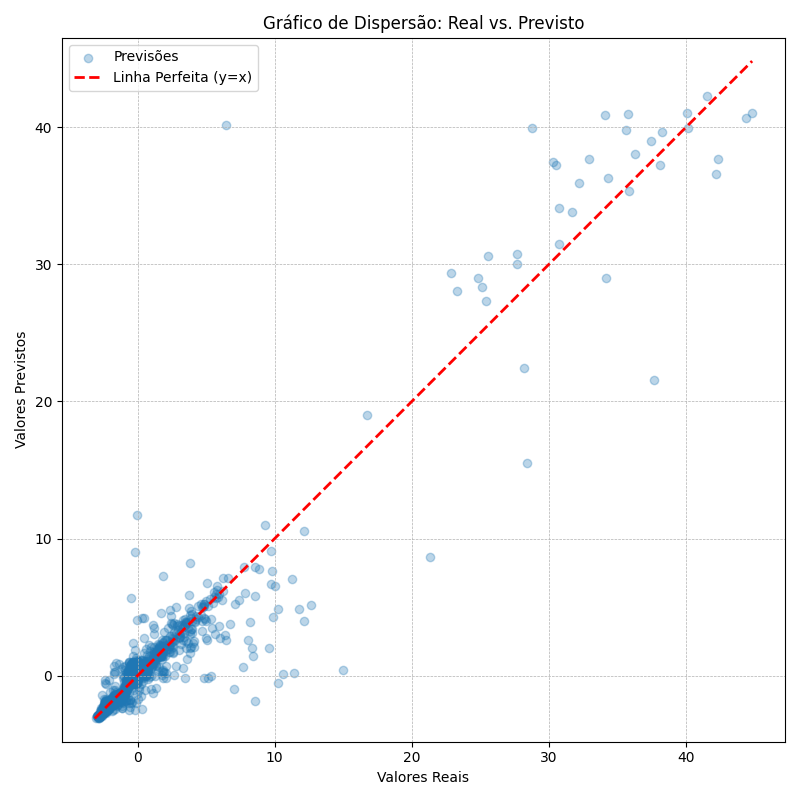
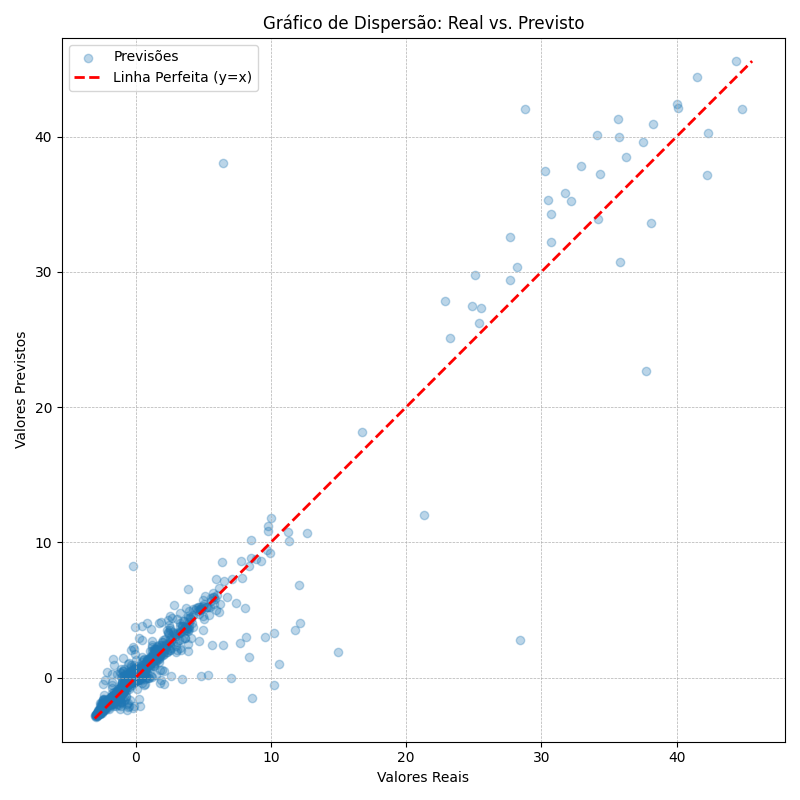
Add files via upload

diff --git a/TFT/TFT.py b/TFT/TFT.py
@@ -1,0 +1,273 @@
+# (Pode ser necessário: !pip install pytorch-lightning pytorch-forecasting)
+import pandas as pd
+import numpy as np
+import torch
+import lightning.pytorch as pl # Usar lightning.pytorch para garantir a versão 2.x
+import matplotlib.pyplot as plt
+torch.set_float32_matmul_precision('medium')
+import os
+from pytorch_forecasting import TimeSeriesDataSet, TemporalFusionTransformer
+from pytorch_forecasting.data import GroupNormalizer
+# ... no topo do seu script
+from pytorch_forecasting.metrics import RMSE, MAE
+from sklearn.metrics import r2_score, mean_squared_error
+
+if __name__ == "__main__":
+
+    try:
+        print("\nIniciando Treinamento (Teste 14 - TFT Regressão de Nível)...")
+
+        # --- 1. Carregar Dados (Movido para dentro desta célula) ---
+        file_path = 'dataset_final_completo_com_mkr.csv'
+        print("Carregando e preparando dados...")
+        df = pd.read_csv(file_path)
+        target_col = 'Y_Target_Spread_Ponderado'
+        df = df.drop(columns=['mkr_apyBase', 'mkr_apyReward'])
+        df['date'] = pd.to_datetime(df['date'])
+        df_clean = df.dropna(subset=[target_col]).copy()
+        df_clean = df_clean.sort_values(by='date').reset_index(drop=True)
+
+        df_clean['Y_Target_Rolling_Vol_7D'] = df_clean[target_col].rolling(window=7, min_periods=1).std()
+
+        # --- 2. Definir TODAS as Features (34) (Movido para dentro desta célula) ---
+        market_risk_features = [
+            'totalValueLockedUSD', 'X_USDC_Depeg_Risk', 'X_BTC_Price', 'X_ETH_Price',
+            'X_VIX', 'X_DGS2', 'X_Gas_Price_Gwei', 'X_ETH_Returns', 'X_ETH_Vol_7D',
+            'X_BTC_Returns', 'X_BTC_Vol_7D', 'X_Gas_MA_7D', 'X_VIX_Pct_Change',
+            'total_tvl_aave', 'total_tvl_compound', 'total_tvl_defi',
+            'delta_total_defi_tvl_7d', 'mkr_tvlUsd'
+        ]
+
+        autoregressive_features = [
+            'Y_Aave_APY', 'Y_SOFR', 'Y_Target_Spread', 'DeFi_APY_Ponderado',
+            'apy_aave', 'apy_compound', 'deposit_apy', 'borrow_apy', 'mkr_apy',
+            'X_Aave_Utilization', 'utilization_rate', 'compound_utilization_rate',
+            'total_borrow_usd', 'total_deposit_usd', 'Spread_Aave_Compound', 'Y_Target_Rolling_Vol_7D'
+        ]
+
+        all_features_to_model = market_risk_features + autoregressive_features
+        feature_cols = [col for col in all_features_to_model if col in df_clean.columns]
+
+        # --- 3. Criar DataFrame Final para os Modelos (Movido para dentro desta célula) ---
+        X_y_df = df_clean[feature_cols + [target_col]].copy()
+        for col in X_y_df.columns:
+            X_y_df[col] = pd.to_numeric(X_y_df[col], errors='coerce')
+
+        X_y_df = X_y_df.ffill().fillna(0)
+
+        if X_y_df.isnull().sum().sum() > 0:
+            print("Ainda há NaNs! Preenchendo com 0.")
+            X_y_df = X_y_df.fillna(0)
+
+        # --- NOVO BLOCO: ENGENHARIA DE FEATURES DE VOLATILIDADE ---
+        print("Criando features de volatilidade...")
+        # Volatilidade do próprio target
+        X_y_df['target_vol_7d'] = X_y_df[target_col].rolling(window=7).std().ffill()
+        X_y_df['target_vol_30d'] = X_y_df[target_col].rolling(window=30).std().ffill()
+        
+        # Volatilidade de features importantes (Ex: ETH e VIX)
+        X_y_df['eth_returns_vol_7d'] = X_y_df['X_ETH_Returns'].rolling(window=7).std().ffill()
+        X_y_df['vix_pct_change_vol_7d'] = X_y_df['X_VIX_Pct_Change'].rolling(window=7).std().ffill()
+
+        # Adicione as novas colunas à lista de features
+        new_vol_features = ['target_vol_7d', 'target_vol_30d', 'eth_returns_vol_7d', 'vix_pct_change_vol_7d']
+        feature_cols.extend(new_vol_features)
+        
+        # Garante que as novas colunas não tenham NaNs do bfill inicial
+        X_y_df = X_y_df.ffill().fillna(0)
+        # --- FIM DO NOVO BLOCO ---
+
+        print(f"Dados prontos com {len(feature_cols)} features e 1 alvo.")
+
+        # --- 1. Preparação de Dados para TFT ---
+        tft_data = X_y_df.copy()
+
+        # TFT requer uma coluna 'time_idx' (inteiro sequencial)
+        tft_data['time_idx'] = np.arange(len(tft_data))
+
+        # TFT requer uma coluna de 'group' (mesmo que só tenhamos um)
+        tft_data['group'] = 0
+
+        # --- 2. Divisão Cronológica (Treino/Teste) ---
+        split_ratio = 0.8
+        split_index = int(len(tft_data) * split_ratio)
+
+        train_tft_df = tft_data.iloc[:split_index]
+        test_tft_df = tft_data.iloc[split_index:]
+
+        # --- 3. Criar o TimeSeriesDataSet ---
+        n_lookback = 30 # Dias de histórico
+        n_horizon = 1  # Prever 1 dia à frente
+
+        n_workers = 8
+
+        training_data = TimeSeriesDataSet(
+            train_tft_df,
+            time_idx="time_idx",
+            target=target_col,
+            group_ids=["group"],
+            # --- A CORREÇÃO ---
+            # Adicionamos o target_col à lista de features de input
+            time_varying_unknown_reals=feature_cols + [target_col], 
+            # ------------------
+
+            # --- NOVO PARÂMETRO ---
+            # Diz ao modelo para usar os valores do target de 
+            # 1, 2, 3 e 7 dias atrás como features. - TESTANDO AGR USANDO SOMENTE COM 2 dias pra tras ou mais, evitar basear excessivamente no dia anterior
+            lags={target_col: [2, 3, 7]},
+            # ---------------------
+
+            max_encoder_length=n_lookback,
+            max_prediction_length=n_horizon,
+            target_normalizer=GroupNormalizer(groups=["group"]),
+            add_relative_time_idx=True,
+        )
+
+        validation_data = TimeSeriesDataSet.from_dataset(
+            training_data, tft_data, predict=False, stop_randomization=True
+        )
+
+        batch_size = 32
+        
+        train_dataloader = training_data.to_dataloader(
+            train=True, batch_size=batch_size, num_workers=n_workers, persistent_workers=True
+        )
+        val_dataloader = validation_data.to_dataloader(
+            train=False, batch_size=batch_size, num_workers=n_workers, persistent_workers=True
+        )
+
+        print("Dataloaders do TFT prontos.")
+
+        # --- 4. Definir e Treinar o Modelo TFT ---
+        trainer = pl.Trainer(
+            max_epochs=300,
+            accelerator="auto",
+            gradient_clip_val=0.1,
+            callbacks=[
+                pl.callbacks.EarlyStopping(monitor="val_loss", min_delta=1e-4, patience=20) # Aumentei a paciência
+            ],
+        )
+
+        tft = TemporalFusionTransformer.from_dataset(
+            training_data,
+            # NÃO DEFINA O LR AQUI AINDA
+            hidden_size=256,
+            attention_head_size=4,
+            dropout=0.1,
+            hidden_continuous_size=128,
+            output_size=1,
+            loss=MAE(),
+            reduce_on_plateau_patience=4,
+        )
+        
+        # --- NOVO: Bloco do Tuner ---
+        print("Iniciando o Tuner para encontrar o Learning Rate ideal...")
+        tuner = pl.tuner.Tuner(trainer)
+        
+        # Encontra o LR
+        lr_finder = tuner.lr_find(
+            tft,
+            train_dataloaders=train_dataloader,
+            val_dataloaders=val_dataloader,
+            max_lr=1.0,
+            min_lr=1e-6,
+
+        )
+
+        # Pega a sugestão e plota (o plot é útil no notebook)
+        suggested_lr = lr_finder.suggestion()
+        print(f"Taxa de Aprendizado (LR) sugerida: {suggested_lr}")
+        
+        # Atualiza o modelo com o LR ideal
+        tft.hparams.learning_rate = suggested_lr
+
+        # --- Fim do Bloco do Tuner ---
+
+        print(f"\nTreinando o modelo TFT com LR={suggested_lr} (parâmetros: {tft.size()})...")
+        trainer.fit(
+            tft,
+            train_dataloaders=train_dataloader,
+            val_dataloaders=val_dataloader
+        )
+        print("Treinamento TFT concluído.")
+
+        # --- 5. Avaliação do TFT ---
+        best_model_path = trainer.checkpoint_callback.best_model_path
+        best_tft = TemporalFusionTransformer.load_from_checkpoint(best_model_path)
+
+        # Coletar as previsões (assume que .predict() retorna apenas o tensor de previsões)
+        y_pred_tensor = best_tft.predict(val_dataloader)
+        y_pred_tft = y_pred_tensor.flatten().numpy()
+
+        # Coletar os valores reais do val_dataloader
+        y_test_values_from_dataloader = []
+        for x, y in val_dataloader:
+            # y é uma tupla (target, encoder_target). Pegamos o target (primeiro elemento).
+            y_test_values_from_dataloader.append(y[0].flatten())
+        
+        y_test_tft = torch.cat(y_test_values_from_dataloader).numpy()
+
+        # Verifica se as dimensões correspondem antes de calcular as métricas
+        if len(y_pred_tft) != len(y_test_tft):
+            print(f"Aviso: Comprimento das previsões ({len(y_pred_tft)}) e dos valores reais ({len(y_test_tft)}) não correspondem. Alinhando.")
+            min_len = min(len(y_pred_tft), len(y_test_tft))
+            y_pred_tft = y_pred_tft[:min_len]
+            y_test_tft = y_test_tft[:min_len]
+
+        r2_tft = r2_score(y_test_tft, y_pred_tft)
+        rmse_tft = np.sqrt(mean_squared_error(y_test_tft, y_pred_tft))
+
+        print("\n--- Métricas (TFT) ---")
+        print(f"R-squared (R²): {r2_tft:.4f}")
+        print(f"Root Mean Squared Error (RMSE): {rmse_tft:.6f}")
+
+
+        # --- GRÁFICO 1: Previsão vs. Real (Série Temporal) ---
+        # Este é o gráfico mais importante. Mostra como o modelo seguiu a realidade ao longo do tempo.
+
+        plt.figure(figsize=(15, 6))
+        plt.plot(y_test_tft, label='Valor Real', color='blue', linewidth=1)
+        plt.plot(y_pred_tft, label='Previsão do Modelo', color='red', linestyle='--', linewidth=2)
+        plt.title(f'TFT: Previsão vs. Real (R²: {r2_tft:.4f})')
+        plt.xlabel('Amostras no Tempo (Conjunto de Teste)')
+        plt.ylabel('Valor do Target (Spread Ponderado)')
+        plt.legend()
+        plt.grid(True, which='both', linestyle='--', linewidth=0.5)
+        plt.tight_layout()
+
+        # Salva a imagem em um arquivo
+        plt.savefig('tft_time_series_plot.png')
+        print("Gráfico de Série Temporal salvo em 'tft_time_series_plot.png'")
+
+
+        # --- GRÁFICO 2: Gráfico de Dispersão (Quão perfeito é o modelo?) ---
+        # Se o modelo fosse perfeito, todos os pontos estariam na linha vermelha (y=x).
+
+        plt.figure(figsize=(8, 8))
+        # Limites para a linha y=x
+        min_val = min(np.min(y_test_tft), np.min(y_pred_tft))
+        max_val = max(np.max(y_test_tft), np.max(y_pred_tft))
+
+        plt.scatter(y_test_tft, y_pred_tft, alpha=0.3, label='Previsões')
+        plt.plot([min_val, max_val], [min_val, max_val], 'r--', linewidth=2, label='Linha Perfeita (y=x)')
+        plt.xlabel('Valores Reais')
+        plt.ylabel('Valores Previstos')
+        plt.title('Gráfico de Dispersão: Real vs. Previsto')
+        plt.legend()
+        plt.grid(True, which='both', linestyle='--', linewidth=0.5)
+        plt.axis('equal') # Garante que a escala de X e Y seja a mesma
+        plt.tight_layout()
+
+        # Salva a imagem em um arquivo
+        plt.savefig('tft_scatter_plot.png')
+        print("Gráfico de Dispersão salvo em 'tft_scatter_plot.png'")
+
+
+    except Exception as e:
+        print(f"Um erro ocorreu durante o treinamento do TFT: {e}")
+
+# Adicionei nova feature de volatilidade
+
+# --- Métricas (TFT) ---
+# R-squared (R²): 0.8996
+# Root Mean Squared Error (RMSE): 2.193023

diff --git a/TFT/GARCH.py b/TFT/GARCH.py
@@ -1,0 +1,47 @@
+import pandas as pd
+import numpy as np
+import matplotlib.pyplot as plt
+from arch import arch_model
+
+# Assumindo que 'X_y_df' e 'target_col' existem do Bloco 1
+
+try:
+    print("\nIniciando Treinamento (Teste 15 - GARCH Volatilidade)...")
+
+    # GARCH funciona melhor em "retornos" (deltas), não em "níveis"
+    y_spread_deltas = X_y_df[target_col].diff(1).dropna()
+    
+    # GARCH(1,1) é o modelo padrão
+    # p=1 (lag de volatilidade), q=1 (lag de erro quadrado)
+    garch_model = arch_model(y_spread_deltas, vol='Garch', p=1, q=1)
+    
+    # Treinar (fit) o modelo
+    garch_results = garch_model.fit(disp='off')
+    
+    print(garch_results.summary())
+    
+    # --- Plotar a Volatilidade (Risco) ---
+    print("\nPlotando a volatilidade condicional (o risco previsto)...")
+    
+    # Pegar a volatilidade prevista pelo modelo
+    conditional_volatility = garch_results.conditional_volatility
+    
+    plt.figure(figsize=(15, 6))
+    plt.plot(df_clean['date'].iloc[1:], y_spread_deltas, label='Mudança Diária no Spread (Deltas)', alpha=0.7)
+    plt.plot(
+        df_clean['date'].iloc[1:], 
+        conditional_volatility, 
+        label='Volatilidade GARCH (Risco)', 
+        color='red', 
+        linestyle='--'
+    )
+    plt.title('Modelo GARCH: Volatilidade do Spread de Risco DeFi')
+    plt.legend()
+    plt.show()
+    
+    # Salvar o gráfico
+    plt.savefig('garch_volatility_plot.png')
+    print("Gráfico GARCH salvo em 'garch_volatility_plot.png'")
+
+except Exception as e:
+    print(f"Um erro ocorreu durante o treinamento do GARCH: {e}")
